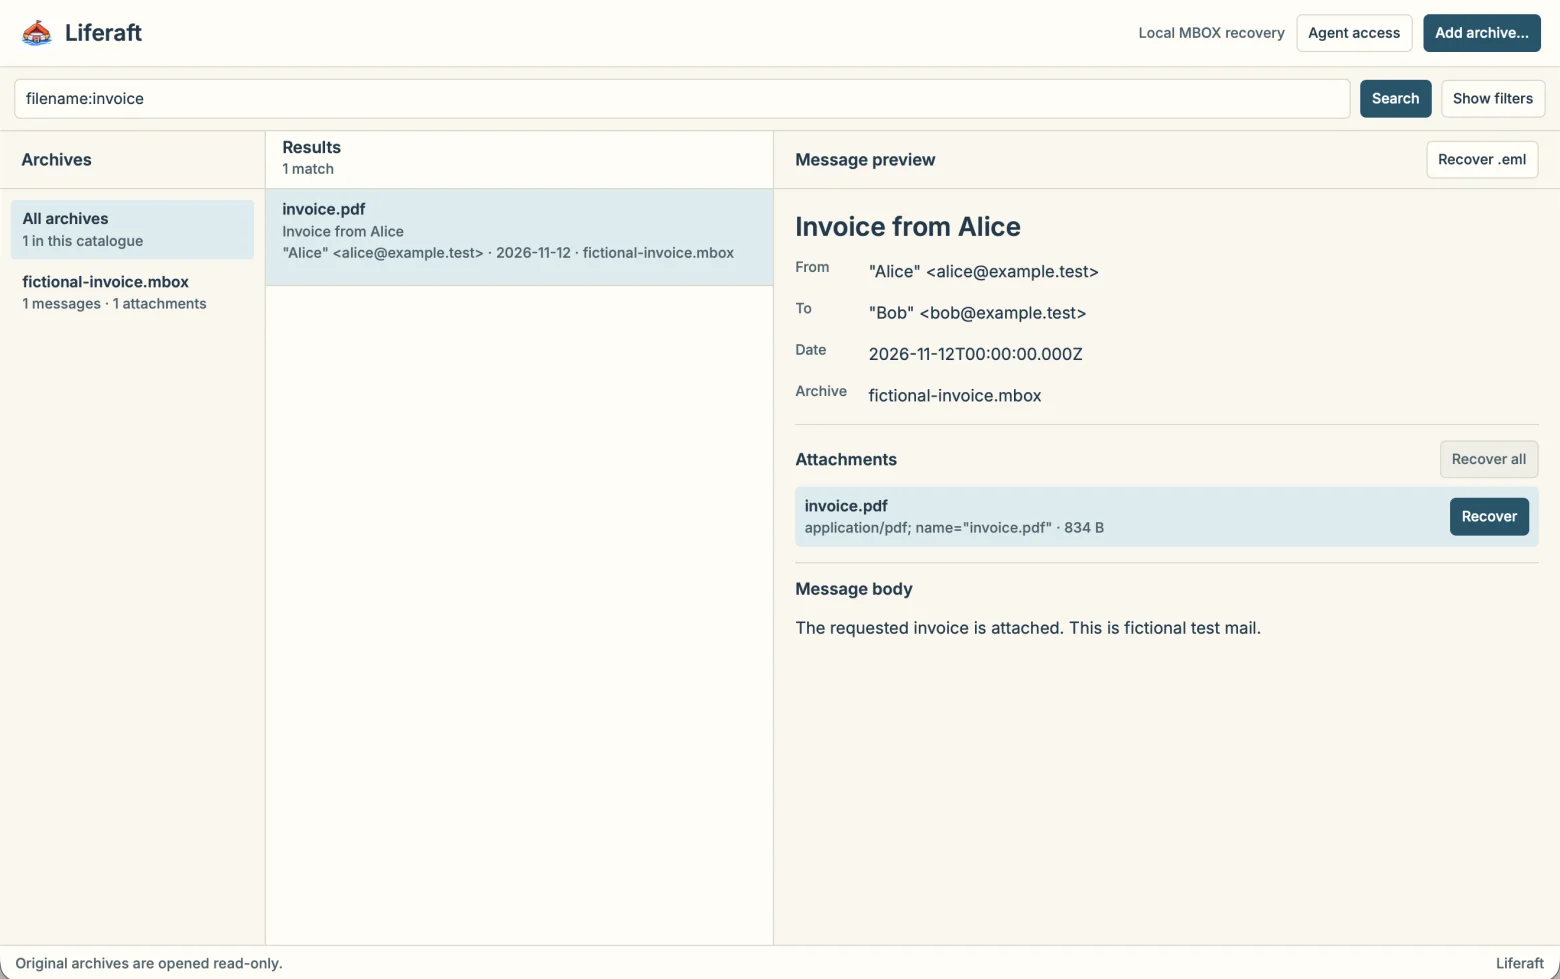
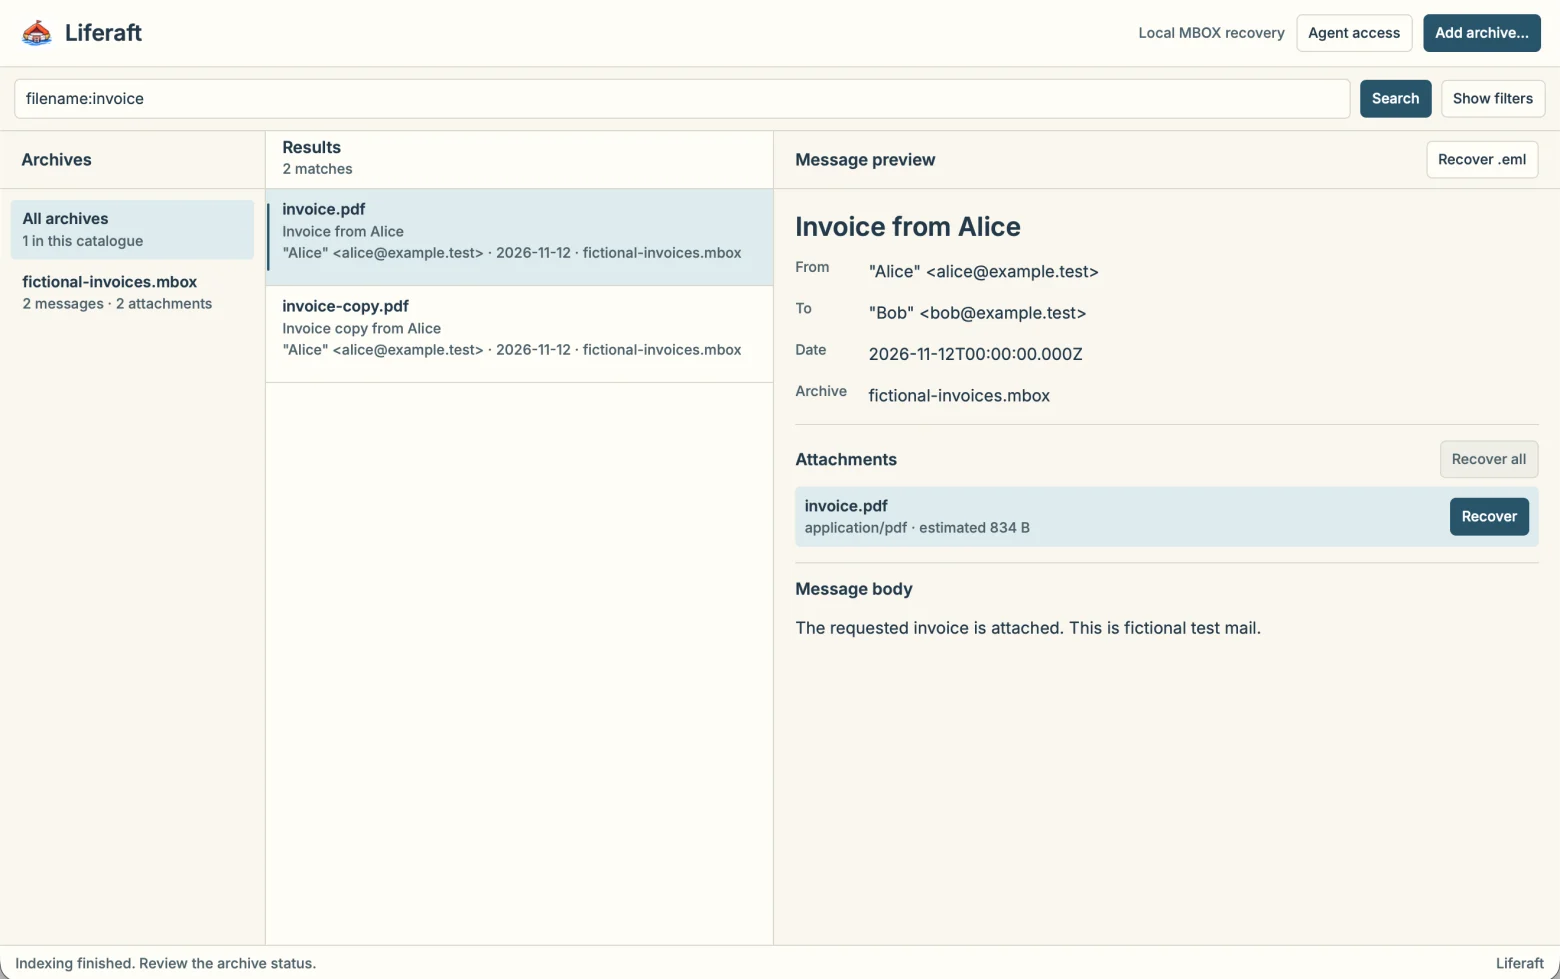
Release native Rune recovery with spring motion

diff --git a/site/public/index.html b/site/public/index.html
@@ -66,14 +66,10 @@
             "url": "https://liferaft.loftwah.com/",
             "description": "Search local MBOX archives and recover messages and attachments.",
             "applicationCategory": "UtilitiesApplication",
-            "softwareVersion": "0.1.2",
-            "operatingSystem": "macOS (Apple silicon), Windows (x64), Linux (x86-64)",
-            "softwareHelp": "https://github.com/loftwah/liferaft/tree/v0.1.2#readme",
-            "downloadUrl": [
-              "https://github.com/loftwah/liferaft/releases/download/v0.1.2/Liferaft-0.1.2-mac-arm64.dmg",
-              "https://github.com/loftwah/liferaft/releases/download/v0.1.2/Liferaft-0.1.2-win-x64.exe",
-              "https://github.com/loftwah/liferaft/releases/download/v0.1.2/Liferaft-0.1.2-linux-x86_64.AppImage"
-            ]
+            "softwareVersion": "0.3.0",
+            "operatingSystem": "macOS 13.5 or later (Apple silicon)",
+            "softwareHelp": "https://github.com/loftwah/liferaft/tree/v0.3.0#readme",
+            "downloadUrl": "https://github.com/loftwah/liferaft/releases/download/v0.3.0/Liferaft-0.3.0-mac-arm64.dmg"
           }
         ]
       }
@@ -101,15 +97,15 @@
             attachments. Check the original message, then save the file you came
             for.
           </p>
-          <a class="button" href="#download">See downloads</a>
+          <a class="button" href="#download">Get Liferaft for Mac</a>
         </div>
         <figure class="app-figure">
           <a
-            href="/media/rune-recovery-original.webp"
+            href="/media/rune-recovery-original.webp?v=0.3.0"
             aria-label="View the full-size screenshot of the invoice search and message preview"
           >
             <img
-              src="/media/rune-recovery.webp"
+              src="/media/rune-recovery.webp?v=0.3.0"
               width="1560"
               height="979"
               alt="Liferaft’s archive list, search for invoice.pdf and original message preview with attachment recovery controls"
@@ -163,38 +159,46 @@
         <div>
           <h2>Get Liferaft.</h2>
           <p>
-            The published desktop release is v0.1.2, the earlier Electron
-            edition. Its installers are unsigned. The Rune edition has been
-            packaged and tested locally on Apple silicon. The public Rune
-            download is pending macOS distribution signing.
+            Rune v0.3.0 is available for Apple silicon Macs running macOS 13.5
+            or later. The DMG includes the runtime and SQLite.
           </p>
           <a
             class="button"
-            href="https://github.com/loftwah/liferaft/releases/tag/v0.1.2"
-            >View the v0.1.2 release</a
+            href="https://github.com/loftwah/liferaft/releases/download/v0.3.0/Liferaft-0.3.0-mac-arm64.dmg"
+            >Download Liferaft v0.3.0</a
           >
         </div>
-        <ul class="downloads">
-          <li>
-            <a
-              href="https://github.com/loftwah/liferaft/releases/download/v0.1.2/Liferaft-0.1.2-mac-arm64.dmg"
-              ><strong>macOS</strong
-              ><span>Apple silicon · v0.1.2 · DMG</span></a
-            >
-          </li>
-          <li>
-            <a
-              href="https://github.com/loftwah/liferaft/releases/download/v0.1.2/Liferaft-0.1.2-win-x64.exe"
-              ><strong>Windows</strong><span>x64 · v0.1.2 · EXE</span></a
-            >
-          </li>
-          <li>
-            <a
-              href="https://github.com/loftwah/liferaft/releases/download/v0.1.2/Liferaft-0.1.2-linux-x86_64.AppImage"
-              ><strong>Linux</strong><span>x86-64 · v0.1.2 · AppImage</span></a
-            >
-          </li>
-        </ul>
+        <div>
+          <h3>First launch on macOS</h3>
+          <p>
+            This build is unnotarised. Open the DMG, drag Liferaft into
+            Applications and try opening it. If macOS blocks it and you trust
+            the download, follow Apple’s
+            <a href="https://support.apple.com/en-us/102445"
+              >Open Anyway instructions</a
+            >.
+          </p>
+          <ul class="downloads">
+            <li>
+              <a href="https://github.com/loftwah/liferaft/releases/tag/v0.3.0"
+                ><strong>Rune release notes</strong
+                ><span>v0.3.0 · Apple silicon</span></a
+              >
+            </li>
+            <li>
+              <a
+                href="https://github.com/loftwah/liferaft/releases/download/v0.3.0/Liferaft-0.3.0-mac-arm64.dmg.sha256"
+                ><strong>Download checksum</strong><span>SHA-256</span></a
+              >
+            </li>
+            <li>
+              <a href="https://github.com/loftwah/liferaft/releases/tag/v0.1.2"
+                ><strong>Earlier Electron release</strong
+                ><span>v0.1.2 · macOS, Windows and Linux</span></a
+              >
+            </li>
+          </ul>
+        </div>
       </section>
 
       <section class="help">
@@ -203,7 +207,7 @@
             <h2>Before you start.</h2>
             <ul class="resources">
               <li>
-                <a href="https://github.com/loftwah/liferaft/tree/v0.1.2#readme"
+                <a href="https://github.com/loftwah/liferaft/tree/v0.3.0#readme"
                   >v0.1.2 setup and recovery</a
                 >
               </li>

diff --git a/site/public/media/index.html b/site/public/media/index.html
@@ -37,7 +37,7 @@
             >
           </li>
           <li>
-            <a href="/media/rune-recovery-original.webp" download
+            <a href="/media/rune-recovery-original.webp?v=0.3.0" download
               >Rune recovery screenshot <span>Full-size WebP</span></a
             >
           </li>

diff --git a/native/src/view.rs b/native/src/view.rs
@@ -1,6 +1,7 @@
 use rune::tok::{TextStyle, type_};
 use rune::{
-    Color, Cx, El, GrowthSpec, LiveRegion, ScrollSpec, TextEdit, Tx, col, el, row, text, text_input,
+    Color, Cx, El, GrowthSpec, LiveRegion, ScrollSpec, Spring, TextEdit, Tx, col, el, row, text,
+    text_input,
 };
 use serde_json::json;
 
@@ -206,6 +207,15 @@ fn count(value: u64, singular: &str, plural: &str) -> String {
     format!("{value} {}", if value == 1 { singular } else { plural })
 }
 
+fn indexed_percent(progress: &crate::model::Progress) -> u64 {
+    progress
+        .bytes_processed
+        .saturating_mul(100)
+        .checked_div(progress.total_bytes)
+        .unwrap_or(0)
+        .min(100)
+}
+
 fn archive_detail(a: &Archive) -> String {
     if a.needs_reindex {
         return "Reindex required".into();
@@ -214,14 +224,9 @@ fn archive_detail(a: &Archive) -> String {
         "indexing" => a.progress.as_ref().map_or_else(
             || "Starting index…".into(),
             |p| {
-                let percent = p
-                    .bytes_processed
-                    .saturating_mul(100)
-                    .checked_div(p.total_bytes)
-                    .unwrap_or(0);
                 format!(
                     "Indexing · {}% · {} messages",
-                    percent.min(100),
+                    indexed_percent(p),
                     p.messages_processed
                 )
             },
@@ -235,6 +240,25 @@ fn archive_detail(a: &Archive) -> String {
     }
 }
 
+fn index_progress(percent: u64) -> El {
+    // The archive row already names the percentage to assistive technology.
+    row()
+        .key("index-track")
+        .w_full()
+        .h(4.0)
+        .radius(2.0)
+        .fill(line())
+        .a11y_hidden()
+        .child(
+            el().key("index-fill")
+                .w_frac(percent as f32 / 100.0)
+                .h(4.0)
+                .radius(2.0)
+                .fill(accent())
+                .motion(Spring::new(0.24, 0.0)),
+        )
+}
+
 fn archives(s: &State) -> El {
     let busy_index = s.archives.iter().any(|a| a.status == "indexing");
     let mut list = col().w_full().padding(9.0).gap(3.0).child(archive_row(
@@ -245,13 +269,21 @@ fn archives(s: &State) -> El {
         s.ready(),
     ));
     for a in &s.archives {
-        list = list.child(archive_row(
+        let mut item = archive_row(
             Some(a.id.clone()),
             &a.name,
             archive_detail(a),
             s.archive.as_ref() == Some(&a.id),
             s.ready(),
-        ));
+        );
+        if let Some(progress) = a
+            .progress
+            .as_ref()
+            .filter(|p| a.status == "indexing" && p.total_bytes > 0)
+        {
+            item = item.child(index_progress(indexed_percent(progress)));
+        }
+        list = list.child(item);
     }
     let mut section = col()
         .w(224.0)
@@ -415,13 +447,16 @@ fn result_row(s: &State, index: usize) -> El {
         date(found.date.as_deref()),
         found.archive_name
     );
-    col()
+    let item = col()
         .h(82.0)
         .w_full()
         .fill(if selected { blue() } else { light() })
         .hover(blue())
         .role("button")
-        .label(format!("{main}. {origin}"))
+        .label(format!(
+            "{main}. {}{origin}",
+            if selected { "Selected. " } else { "" }
+        ))
         .focusable(true)
         .focus_ring(2.0, -2.0, accent())
         .on_press_tx(move |s: &mut State, tx| s.select(&id, tx))
@@ -437,7 +472,21 @@ fn result_row(s: &State, index: usize) -> El {
                 .child(label(details).truncate())
                 .child(label(origin).truncate()),
         )
-        .child(separator())
+        .child(separator());
+    if selected {
+        item.child(
+            el().key("result-selection")
+                .matched("recovery-result-selection")
+                .absolute(1.0, 12.0)
+                .size(2.0, 57.0)
+                .radius(1.0)
+                .fill(accent())
+                .motion(Spring::new(0.24, 0.0))
+                .a11y_hidden(),
+        )
+    } else {
+        item
+    }
 }
 
 fn date(value: Option<&str>) -> &str {
@@ -936,4 +985,62 @@ pub fn view(s: &State, _: &mut Cx<State>) -> El {
                 .truncate(),
             ),
     )
+}
+
+#[cfg(test)]
+mod motion_tests {
+    use super::*;
+    use crate::model::Match;
+    use rune::{Env, Runtime};
+
+    fn result(id: &str) -> Match {
+        Match {
+            result_id: id.into(),
+            index_revision: "fixture".into(),
+            archive_id: "archive".into(),
+            archive_name: "Fictional".into(),
+            id: 1,
+            subject: id.into(),
+            from_text: "Sender".into(),
+            date: None,
+            snippet: String::new(),
+            attachment_id: None,
+            attachment_filename: None,
+            suggested_filename: None,
+            message_filename: "fixture.eml".into(),
+        }
+    }
+
+    #[test]
+    fn selection_marker_springs_to_the_next_row_and_snaps_with_reduced_motion() {
+        for reduced in [false, true] {
+            let state = State {
+                results: vec![result("first"), result("second")],
+                selected: Some("first".into()),
+                ..State::default()
+            };
+            let mut runtime = Runtime::new(state, view, (1200.0, 780.0), Env::new(false, 1.0));
+            runtime.set_system_reduced_motion(reduced);
+            runtime.frame(0.0);
+            let position =
+                |runtime: &Runtime<State>| runtime.presented("result-selection").unwrap().0[1];
+            let start = position(&runtime);
+            runtime.update(|s, tx| {
+                s.selected = Some("second".into());
+                tx.animated();
+            });
+            runtime.frame(1.0 / 60.0);
+            let early = position(&runtime);
+            for _ in 0..30 {
+                runtime.frame(1.0 / 60.0);
+            }
+            let end = position(&runtime);
+            assert!((end - start - 82.0).abs() < 0.5);
+            if reduced {
+                assert!((early - end).abs() < 0.5);
+            } else {
+                assert!(start <= early && early < end - 1.0);
+            }
+        }
+    }
 }

diff --git a/docs/verification.md b/docs/verification.md
@@ -1,6 +1,29 @@
 # Liferaft verification
 
-## 0.3.0 native Rune candidate
+## 0.3.0 public Rune release
+
+13 November 2026, Melbourne. The public DMG targets Apple silicon and declares
+macOS 13.5 as its minimum. Installed verification ran on macOS 26.6.2 arm64.
+The app’s Rune selection marker uses shared-element spring motion and the
+archive row shows animated indexing progress. The Rune runtime test checks
+selection movement across virtualised rows and the Reduce Motion fallback.
+
+The release candidate was mounted and installed in an isolated location.
+Search, changing results, selection in the native accessibility tree, PDF and
+original-message recovery, and save-dialog focus restoration were exercised
+with fictional mail. The final package recovered the expected PDF and left
+the source archive unchanged. The engine files matched the previous candidate
+byte-for-byte. Formatting, TypeScript, 36 Bun tests, 11 Node integration tests
+and the Rune motion test passed.
+
+The SHA-256 of the DMG is
[1 lines of base64/hex data omitted]
+The public build is ad-hoc signed and unnotarised. macOS may require the user
+to approve it manually. The evidence used an isolated local installation.
+See the [v0.3.0 release](https://github.com/loftwah/liferaft/releases/tag/v0.3.0)
+and [download page](https://liferaft.loftwah.com/#download).
+
+## 0.3.0 native Rune candidate (historical)
 
 Verified 12 November 2026 in Melbourne. The native work starts at Liferaft
 `7691f423dd3ea1f050cbec9a12552642ce6db2ae` (#11) and pins Rune
@@ -39,8 +62,8 @@ source revision associated with the installed candidate.
   An independent review exercised a real in-progress export and verified
   that pipe EOF aborted publication and removed the partial file.
 - macOS Gatekeeper rejected the ad-hoc candidate for distribution. The host
-  has Apple Development identities. A Developer ID Application identity and
-  authorised notarisation profile are required for the public Rune release.
+  had Apple Development identities. A Developer ID Application identity and
+  notarisation would let a distribution build pass Gatekeeper’s usual check.
   Rune builds for Windows, Linux, Intel macOS and older macOS versions remain
   unverified. Spoken VoiceOver output remains unverified.
 

diff --git a/README.md b/README.md
@@ -31,10 +31,13 @@ for the index. Reindexing may temporarily need space for two copies of the index
 
 ## Downloads and source
 
-The [release page](https://github.com/loftwah/liferaft/releases) lists published
-installers. v0.1.2 uses Electron. The Rune source builds an Apple silicon macOS
-package locally. See the [verification ledger](docs/verification.md) for its
-installed and published status.
+[Download Liferaft v0.3.0](https://github.com/loftwah/liferaft/releases/download/v0.3.0/Liferaft-0.3.0-mac-arm64.dmg)
+for Apple silicon Macs on macOS 13.5 or later. Open the DMG, drag Liferaft into
+Applications and try opening it. The build is unnotarised. If macOS blocks it
+and you trust the download, follow Apple’s [Open Anyway instructions](https://support.apple.com/en-us/102445).
+The [release notes](https://github.com/loftwah/liferaft/releases/tag/v0.3.0)
+include the SHA-256 checksum. The [earlier v0.1.2 release](https://github.com/loftwah/liferaft/releases/tag/v0.1.2)
+uses Electron and includes Windows and Linux installers.
 
 Rune reuses the existing catalogue, indexes and agent settings in
 `~/Library/Application Support/liferaft` on macOS. Quit older Liferaft builds

diff --git a/docs/toolchain.md b/docs/toolchain.md
@@ -24,8 +24,8 @@ arm64 SQLite prebuild. The script verifies the bundle signature and creates an
 FTS5 table with the bundled engine before making the DMG and its SHA-256 file.
 No development runtime is needed to run the installed bundle.
 
-Local packaging defaults to ad-hoc signing for isolated verification. For
-distribution, use a configured Developer ID Application identity as
+The public v0.3.0 DMG uses ad-hoc signing and is labelled unnotarised.
+For notarised distribution, use a configured Developer ID Application identity as
 `LIFERAFT_SIGN_IDENTITY` and a preconfigured notarytool Keychain profile as
 `LIFERAFT_NOTARY_PROFILE`. The script signs, submits, staples and validates the
 DMG in that mode. Keep Apple credentials in the authorised local store.
